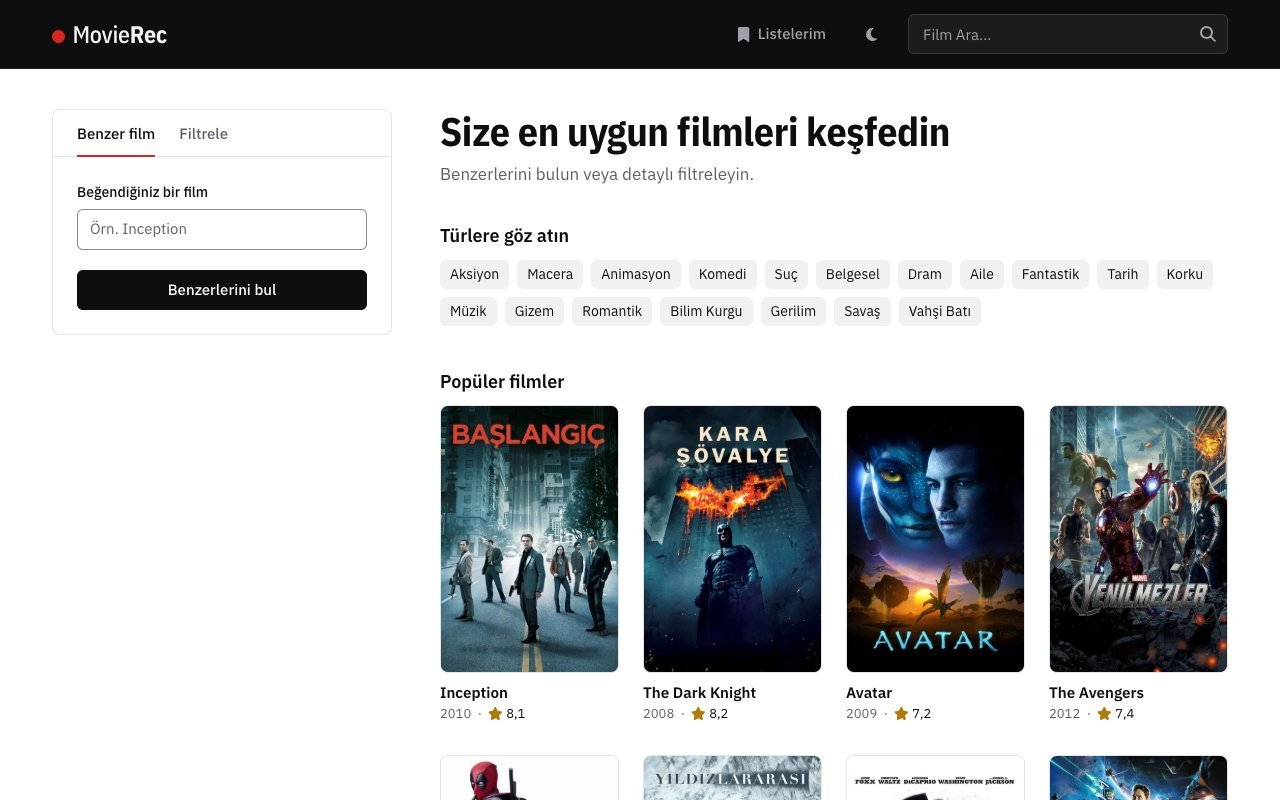
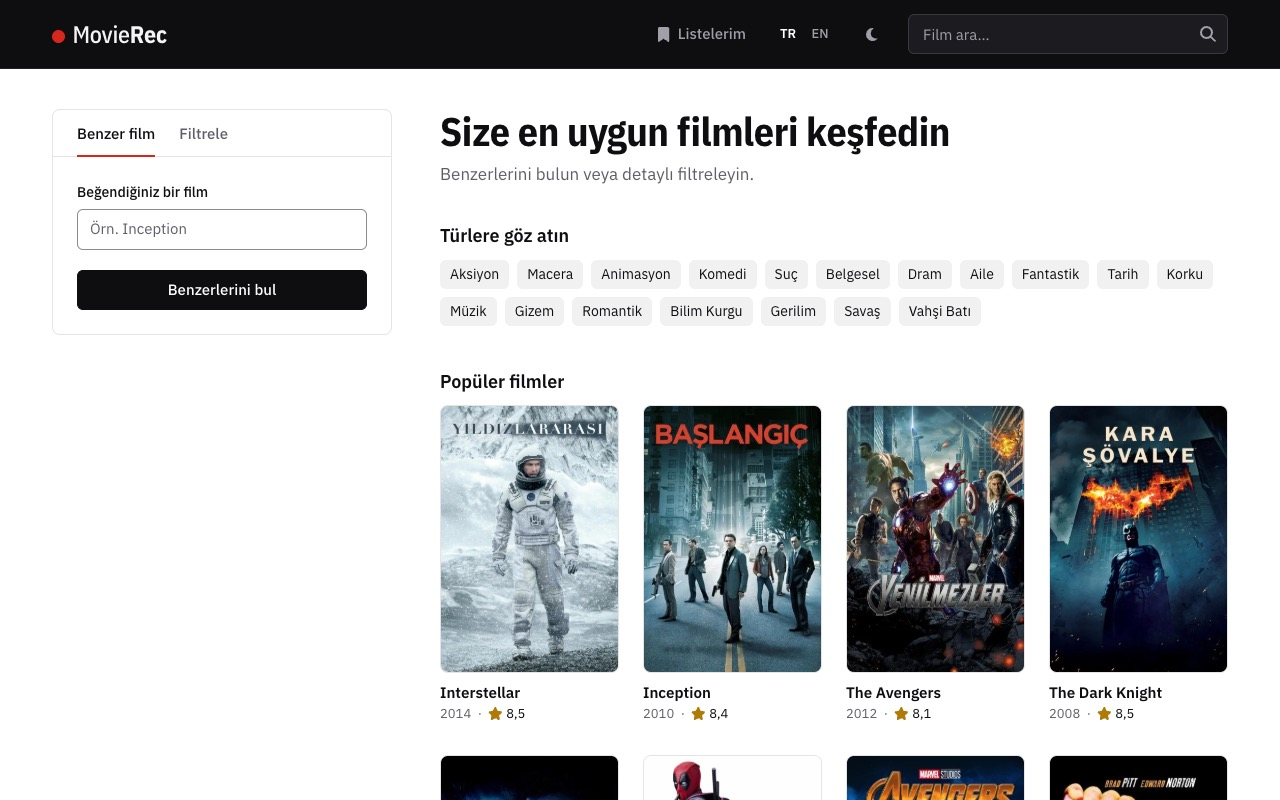
Update the screenshots

diff --git a/README.md b/README.md
@@ -19,7 +19,7 @@ The demo is a static copy with results computed in advance. Its person pages hav
 
 <p>
   <a href="screenshots/home.jpg"><img src="screenshots/home.jpg" alt="Home page" width="49%"></a>
-  <a href="screenshots/similar-movies.jpg"><img src="screenshots/similar-movies.jpg" alt="Films similar to Inception" width="49%"></a>
+  <a href="screenshots/similar-movies.jpg"><img src="screenshots/similar-movies.jpg" alt="Films similar to Inception, in English" width="49%"></a>
   <a href="screenshots/movie-page-dark.jpg"><img src="screenshots/movie-page-dark.jpg" alt="Movie page in the dark theme" width="49%"></a>
   <a href="screenshots/my-lists.jpg"><img src="screenshots/my-lists.jpg" alt="Suggestions based on the favourites" width="49%"></a>
 </p>

diff --git a/README.tr.md b/README.tr.md
@@ -19,7 +19,7 @@ Demo, sonuçları önceden hesaplanmış statik bir kopyadır. Kişi sayfaların
 
 <p>
   <a href="screenshots/home.jpg"><img src="screenshots/home.jpg" alt="Ana sayfa" width="49%"></a>
-  <a href="screenshots/similar-movies.jpg"><img src="screenshots/similar-movies.jpg" alt="Inception için benzer filmler" width="49%"></a>
+  <a href="screenshots/similar-movies.jpg"><img src="screenshots/similar-movies.jpg" alt="Inception için benzer filmler, İngilizce" width="49%"></a>
   <a href="screenshots/movie-page-dark.jpg"><img src="screenshots/movie-page-dark.jpg" alt="Koyu temada film sayfası" width="49%"></a>
   <a href="screenshots/my-lists.jpg"><img src="screenshots/my-lists.jpg" alt="Beğenilere göre öneriler" width="49%"></a>
 </p>
